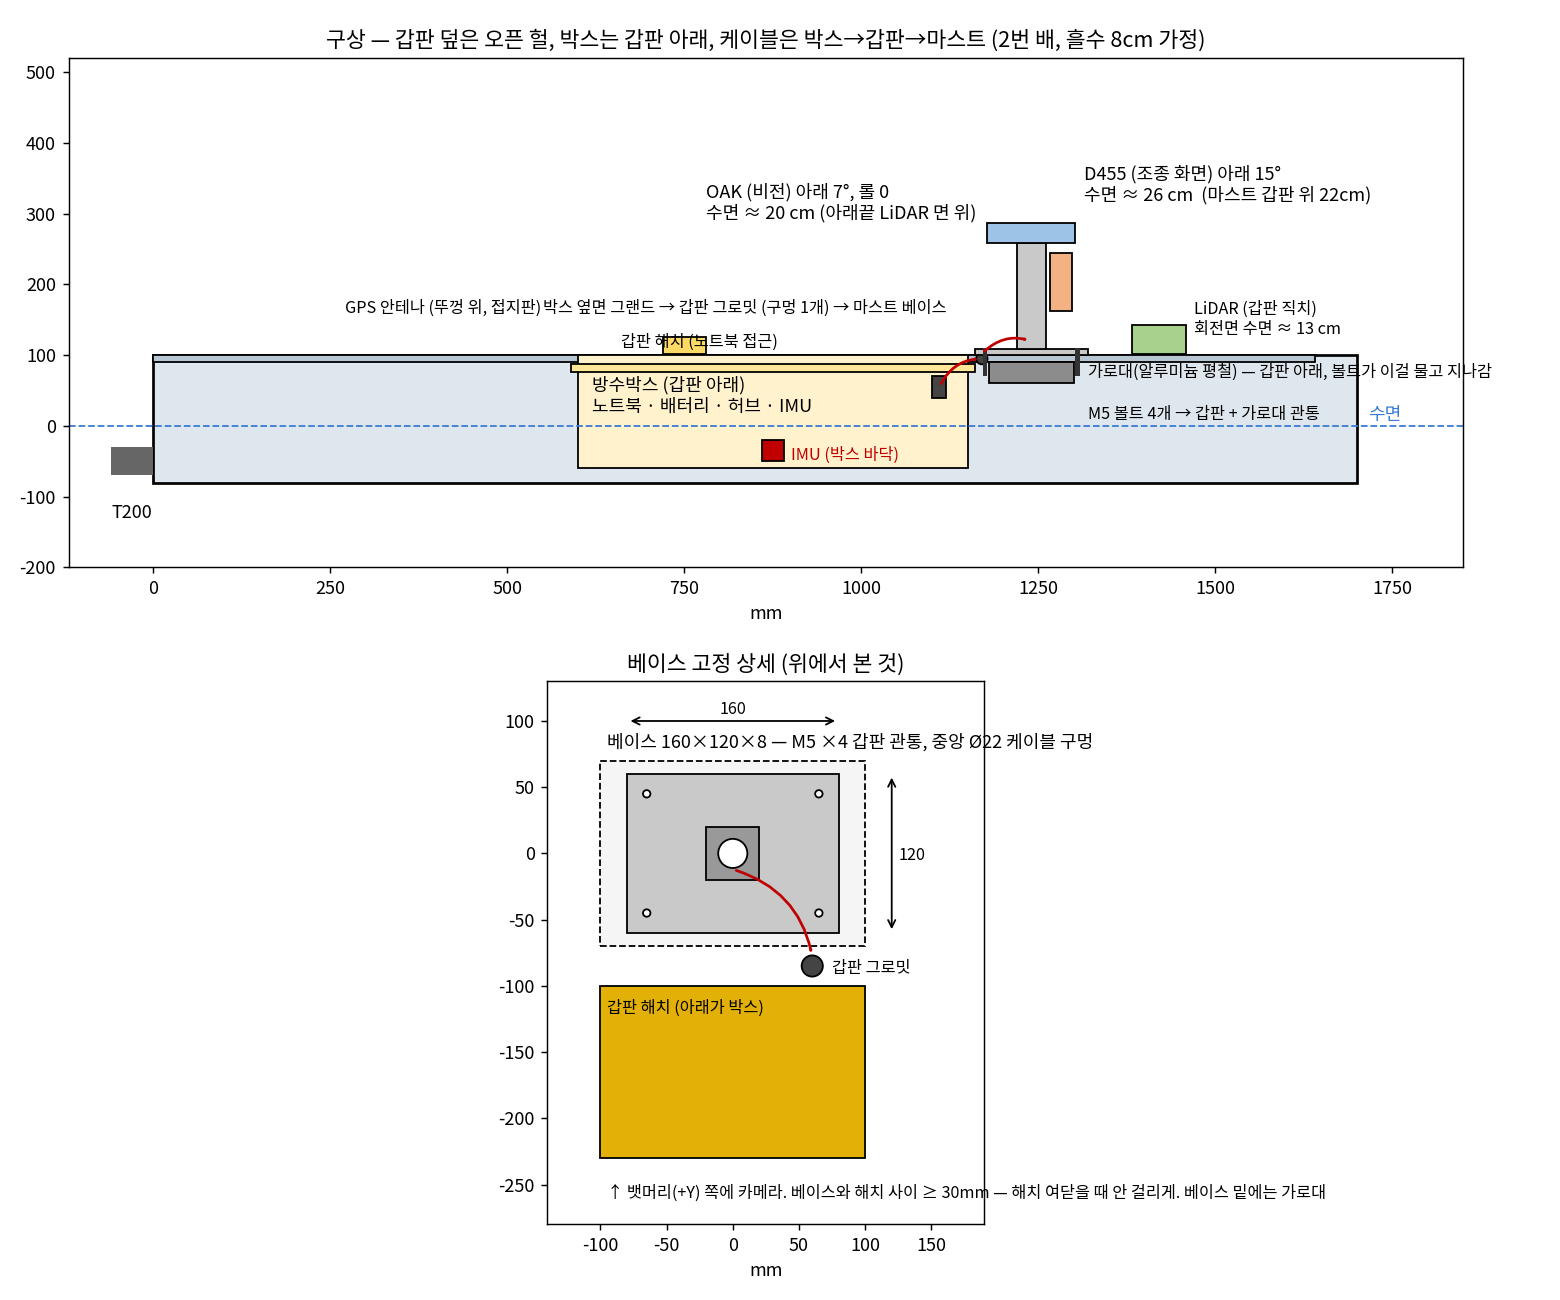
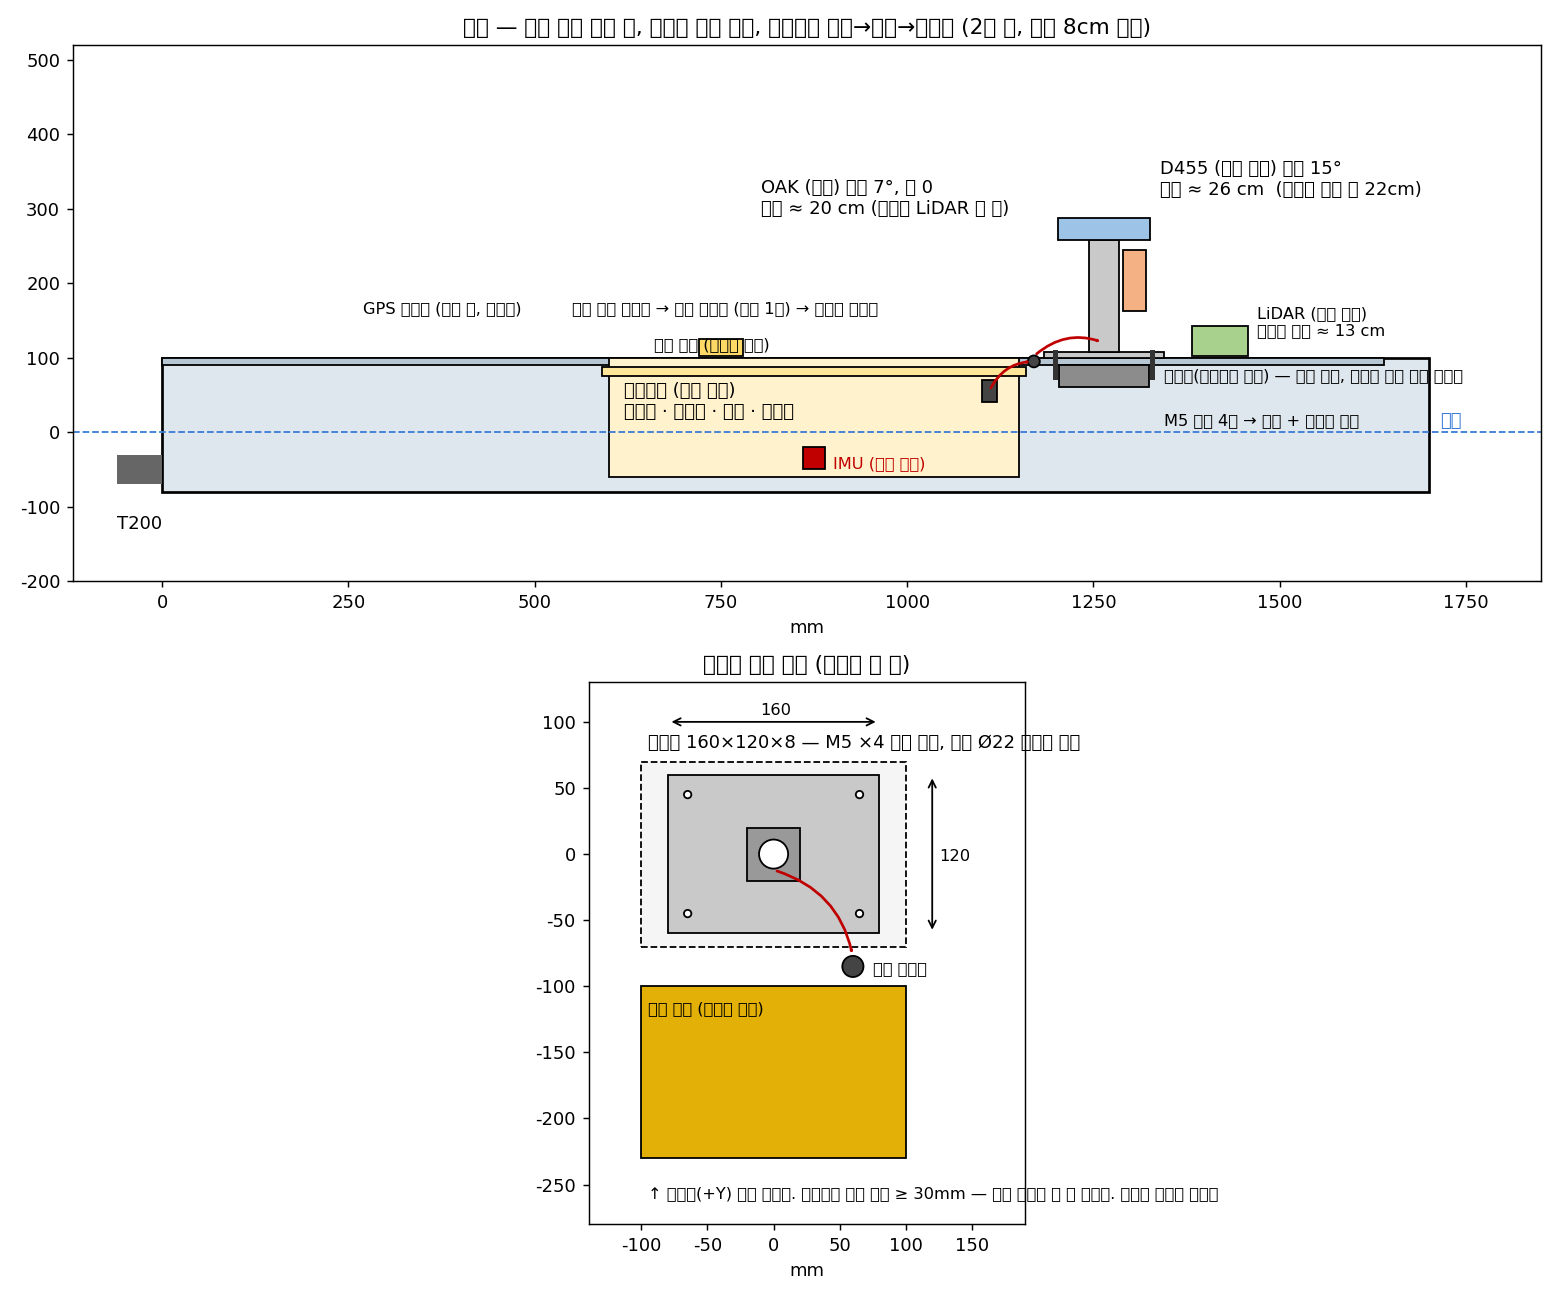
docs: 갑판 관통부 목록 신설 — 센서는 갑판 위, 선만 관통 (2026-09-17 확정)
사용자 확정: 박스는 갑판 아래(뚜껑=해치) 그대로, 센서는 전부 갑판 위에 얹고
갑판을 뚫는 것은 케이블뿐. 장비를 갑판에 함몰시키는 구성은 쓰지 않는다.

하드웨어_배치_요구사항.md 2-2 신설 — 관통부는 3개뿐:
  A x~1264 O25  마스트 다발(OAK Cat5e + D455 USB + IMU 4핀 + 표시등)
  B x~1470 O10  LiDAR 5핀 하네스
  C x~515  O8   GPS 안테나 동축
모두 그로밋+실란트, 드립 루프. 장비용 개구부 없음. 해치는 관통부가 아니라 박스 뚜껑.
박스 쪽은 앞면 구멍 하나로 받고 RJ45 헤드 통과를 위해 >=O22.

concept_recessed.py 정리: 파일명의 'recessed' 는 **박스만** 아래라는 뜻임을 docstring 에 명시,
박스 안 라벨에서 IMU 제거(09-16 부터 마스트 베이스 포켓), MAST_X 를 1264 로.
(주석을 ax.text 인자 안에 넣어 닫는 괄호를 먹였던 것도 함께 수정)

diff --git a/tools/cad/concept_recessed.py b/tools/cad/concept_recessed.py
@@ -1,5 +1,10 @@
 #!/usr/bin/env python3
-"""concept_recessed.py — 오픈 헐 위에 갑판을 덮고, 방수박스는 갑판 아래(선체 안), 케이블은 박스 그랜드 → 갑판 관통 → 마스트. 전부 추정치."""
+"""concept_recessed.py — 오픈 헐 위에 갑판을 덮고, 방수박스는 갑판 아래(선체 안),
+케이블은 박스 그랜드 → 갑판 관통 → 마스트. 전부 추정치.
+
+⚠ 파일명의 'recessed' 는 **박스만** 갑판 아래라는 뜻이다. 센서는 전부 갑판 **위**에 얹는다
+   (2026-09-17 확정). 갑판을 뚫는 것은 케이블뿐 — 관통부 3개는
+   `docs/전달용/하드웨어_배치_요구사항.md` §2-2 참조."""
 import glob, os
 import matplotlib; matplotlib.use("Agg")
 import matplotlib.pyplot as plt, matplotlib.font_manager as fm
@@ -9,7 +14,7 @@ plt.rcParams["font.family"] = ["Noto Sans CJK KR", "Noto Sans CJK JP", "DejaVu S
 
 L, DEPTH, FREEBOARD = 1700, 180, 100         # 2번 배. 흘수 80 가정 → 갑판 수면 +100
 BOX_X, BOX_W, BOX_H = 600, 550, 160          # 박스: 갑판 아래 선체 안. 뚜껑 위로 해치
-MAST_X, MAST_H, TUBE = BOX_X + BOX_W + 90, 150, 40   # 마스트: 박스 앞쪽 갑판 위
+MAST_X, MAST_H, TUBE = 1264, 150, 40   # [09-17] 마스트 x=1264 (베이스 147.8 깊이 + 해치 이격 30). 갑판 위
 Z_DECK = FREEBOARD
 Z_OAK, Z_D455 = Z_DECK + 8 + 95, Z_DECK + 8 + MAST_H + 40   # 마스트 상한 220: OAK 아래끝 ≈ 갑판+6cm, LiDAR 는 갑판 직치(회전면 갑판+3cm)
 LIDAR_X = 1420
@@ -28,7 +33,8 @@ ax.axhline(0, color="#3a7bd5", ls="--", lw=1); ax.text(L + 15, 8, "수면", colo
 # 박스 (선체 안, 뚜껑 플러시)
 ax.add_patch(Rectangle((BOX_X, FREEBOARD - BOX_H), BOX_W, BOX_H, fc="#fff2cc", ec="k"))
 ax.add_patch(Rectangle((BOX_X - 10, FREEBOARD - 10 - 14), BOX_W + 20, 12, fc="#ffe699", ec="k"))  # 박스 뚜껑 (갑판 바로 아래)
-ax.text(BOX_X + 20, FREEBOARD - 80, "방수박스 (갑판 아래)\n노트북 · 배터리 · 허브 · IMU")
+# IMU 는 09-16 부터 마스트 베이스 포켓이다 (여기 박스 안이 아니다)
+ax.text(BOX_X + 20, FREEBOARD - 80, "방수박스 (갑판 아래)\n노트북 · 배터리 · 허브 · 인젝터")
 # 뚜껑 그랜드
 gx = BOX_X + BOX_W - 60
 gx = BOX_X + BOX_W - 40

diff --git a/docs/전달용/하드웨어_배치_요구사항.md b/docs/전달용/하드웨어_배치_요구사항.md
@@ -75,6 +75,24 @@
 - **B배(ZED-F9P)**: `dynamic_model: sea` 이미 설정(zed_f9p_rover.yaml). RTK FIXED 조건 "C/N0 40 이상" — 접지판·하늘 가림이 이걸 좌우한다.
 - 실측 대기: 실제 안테나 모델(ANN-MB / ANN-MS / 기타), 케이블 길이, 접지판 보유 여부 → `하드웨어_위치_회신_프롬프트.md` GPS 절.
 
+## 2-2. 갑판 관통부 — **선만 지나간다** (2026-09-17 확정)
+
+원칙: **센서·장비는 갑판에 묻지 않는다. 전부 갑판 위에 얹고, 갑판을 뚫는 것은 케이블뿐이다.**
+방수박스는 갑판 아래(뚜껑 = 해치) 그대로. 장비를 갑판에 함몰시키는 구성은 쓰지 않는다.
+
+| # | 위치 (선미 기준) | Ø | 지나가는 것 | 마감 |
+|---|---|---|---|---|
+| A | 마스트 베이스 중앙 옆 (x≈1264) | **25** | OAK Cat5e + D455 USB + IMU 4핀 + 표시등 4선 (마스트 베이스 Ø22 에서 내려온 다발) | 그로밋 + 실란트, 드립 루프 |
+| B | LiDAR 바로 뒤 (x≈1470) | **10** | A3 5핀 하네스 (+ 필요시 5V) | 그로밋 + 실란트 |
+| C | GPS 안테나 바로 뒤 (x≈515) | **8** | 안테나 동축 (SMA) | 그로밋 + 실란트 |
+
+- 관통은 **이 3개뿐**이다. 장비용 개구부는 없다.
+- 해치(박스 뚜껑)는 관통부가 아니다 — 박스 자체의 뚜껑이다.
+- 각 구멍은 **케이블이 들어가기 직전에 아래로 한 번 처지게**(드립 루프) 해서 물이 선을 타고 들어가지 않게 한다.
+- 박스 쪽은 앞면 구멍 하나로 받는다(`마스트_요구사항.md` §2-5). RJ45 헤드가 지나야 하므로 ≥Ø22.
+
+⚠ 갑판 두께·박스 위치가 실측되면 A 의 x 와 박스 앞면 구멍 높이를 확정한다.
+
 ## 3. 높이 (측면) — ⚠ 흘수 추정치 기준, §0 부표 높이에 종속
 
 | 장비 | 갑판 기준 | 수면 기준 (2번 배, 건현 14cm 가정) | 수면 기준 (1번 배, 24cm) |
